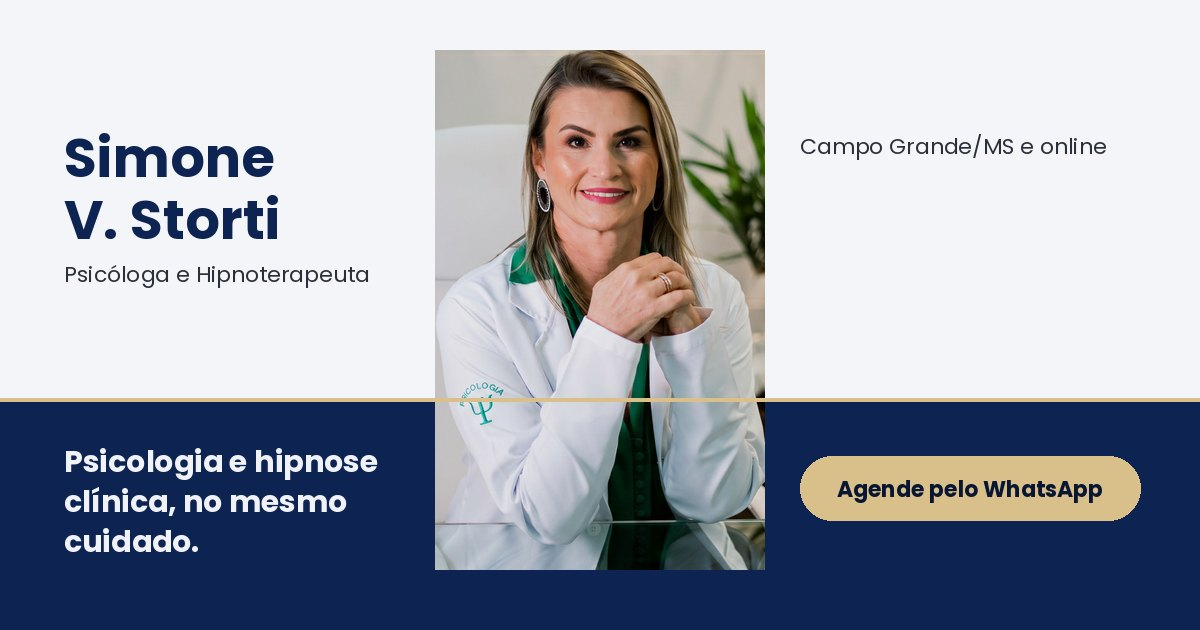
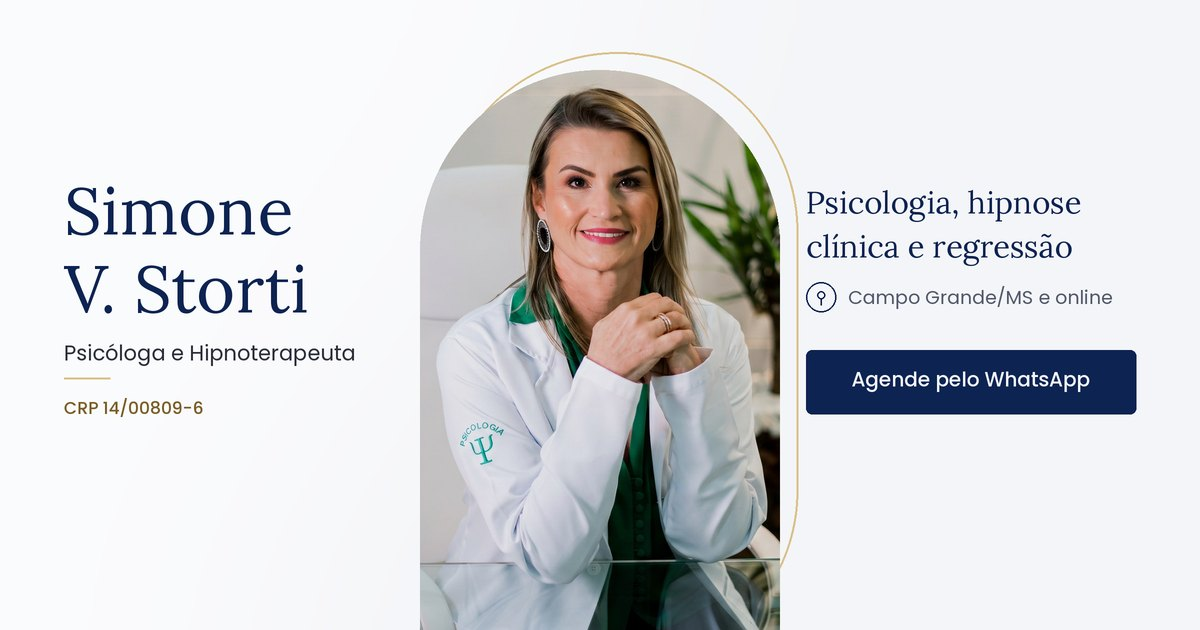
Novo cartão de compartilhamento no visual atual do site
Foto nova em arco no centro, nome serifado, CRP e botão marinho.
Imagem passa para ?v=3 e ganha og:image:secure_url e og:image:type.

Claude-Session: https://claude.ai/code/session_019DKL7e2MCgGKXNxP6ZApVs

diff --git a/site/index.html b/site/index.html
@@ -13,14 +13,16 @@
 <meta property="og:title" content="Simone V. Storti | Psicóloga e Hipnoterapeuta">
 <meta property="og:description" content="Psicóloga e hipnoterapeuta em Campo Grande/MS, com atendimento online. Psicologia, hipnose clínica e regressão para ansiedade, pânico, TOC, depressão, insônia e esgotamento.">
 <meta property="og:url" content="https://simonestorti-bice.vercel.app/">
-<meta property="og:image" content="https://simonestorti-bice.vercel.app/og-image.jpg?v=2">
+<meta property="og:image" content="https://simonestorti-bice.vercel.app/og-image.jpg?v=3">
+<meta property="og:image:secure_url" content="https://simonestorti-bice.vercel.app/og-image.jpg?v=3">
+<meta property="og:image:type" content="image/jpeg">
 <meta property="og:image:width" content="1200">
 <meta property="og:image:height" content="630">
 <meta property="og:image:alt" content="Foto de Simone V. Storti, psicóloga e hipnoterapeuta em Campo Grande/MS">
 <meta name="twitter:card" content="summary_large_image">
 <meta name="twitter:title" content="Simone V. Storti | Psicóloga e Hipnoterapeuta">
 <meta name="twitter:description" content="Psicóloga e hipnoterapeuta em Campo Grande/MS, com atendimento online. Psicologia, hipnose clínica e regressão para ansiedade, pânico, TOC, depressão, insônia e esgotamento.">
-<meta name="twitter:image" content="https://simonestorti-bice.vercel.app/og-image.jpg?v=2">
+<meta name="twitter:image" content="https://simonestorti-bice.vercel.app/og-image.jpg?v=3">
 <link rel="icon" type="image/png" sizes="32x32" href="favicon-32.png">
 <link rel="apple-touch-icon" href="apple-touch-icon.png">
 <link rel="preconnect" href="https://fonts.googleapis.com">

diff --git a/fonte/template.html b/fonte/template.html
@@ -13,14 +13,16 @@
 <meta property="og:title" content="{{NOME}} | {{PROFISSAO}}">
 <meta property="og:description" content="{{DESCRICAO}}">
 <meta property="og:url" content="{{URL}}">
-<meta property="og:image" content="{{URL}}og-image.jpg?v=2">
+<meta property="og:image" content="{{URL}}og-image.jpg?v=3">
+<meta property="og:image:secure_url" content="{{URL}}og-image.jpg?v=3">
+<meta property="og:image:type" content="image/jpeg">
 <meta property="og:image:width" content="1200">
 <meta property="og:image:height" content="630">
 <meta property="og:image:alt" content="Foto de {{NOME}}, {{PROFISSAO_MIN}} em {{CIDADE}}">
 <meta name="twitter:card" content="summary_large_image">
 <meta name="twitter:title" content="{{NOME}} | {{PROFISSAO}}">
 <meta name="twitter:description" content="{{DESCRICAO}}">
-<meta name="twitter:image" content="{{URL}}og-image.jpg?v=2">
+<meta name="twitter:image" content="{{URL}}og-image.jpg?v=3">
 <link rel="icon" type="image/png" sizes="32x32" href="favicon-32.png">
 <link rel="apple-touch-icon" href="apple-touch-icon.png">
 <link rel="preconnect" href="https://fonts.googleapis.com">

diff --git a/fonte/template_parte1.html b/fonte/template_parte1.html
@@ -13,14 +13,16 @@
 <meta property="og:title" content="{{NOME}} | {{PROFISSAO}}">
 <meta property="og:description" content="{{DESCRICAO}}">
 <meta property="og:url" content="{{URL}}">
-<meta property="og:image" content="{{URL}}og-image.jpg?v=2">
+<meta property="og:image" content="{{URL}}og-image.jpg?v=3">
+<meta property="og:image:secure_url" content="{{URL}}og-image.jpg?v=3">
+<meta property="og:image:type" content="image/jpeg">
 <meta property="og:image:width" content="1200">
 <meta property="og:image:height" content="630">
 <meta property="og:image:alt" content="Foto de {{NOME}}, {{PROFISSAO_MIN}} em {{CIDADE}}">
 <meta name="twitter:card" content="summary_large_image">
 <meta name="twitter:title" content="{{NOME}} | {{PROFISSAO}}">
 <meta name="twitter:description" content="{{DESCRICAO}}">
-<meta name="twitter:image" content="{{URL}}og-image.jpg?v=2">
+<meta name="twitter:image" content="{{URL}}og-image.jpg?v=3">
 <link rel="icon" type="image/png" sizes="32x32" href="favicon-32.png">
 <link rel="apple-touch-icon" href="apple-touch-icon.png">
 <link rel="preconnect" href="https://fonts.googleapis.com">

diff --git a/fonte/gerar_imagens.py b/fonte/gerar_imagens.py
@@ -13,7 +13,8 @@ SAIDA.mkdir(exist_ok=True)
 
 NOME = ["Simone", "V. Storti"]
 PROFISSAO = "Psicóloga e Hipnoterapeuta"
-FRASE = ["Psicologia e hipnose", "clínica, no mesmo", "cuidado."]
+FRASE = ["Psicologia, hipnose", "clínica e regressão"]
+CRP = "CRP 14/00809-6"
 CIDADE = "Campo Grande/MS e online"
 
 PORCELANA = (244, 245, 248)
@@ -40,50 +41,82 @@ def fonte(lista, tam):
 
 
 def og():
-    W, H, LINHA = 1200, 630, 400
-    im = Image.new("RGB", (W, H), PORCELANA)
-    d = ImageDraw.Draw(im)
-    d.rectangle([0, LINHA, W, H], fill=MARINHO)
+    """Cartão 1200x630 no visual do site: porcelana, foto em arco no centro
+    (a miniatura quadrada do WhatsApp corta o meio), nome serifado à esquerda,
+    chamada e botão marinho à direita."""
+    W, H = 1200, 630
+    E = 2  # desenha em dobro e reduz no fim, para bordas suaves
+    im = Image.new("RGB", (W * E, H * E), PORCELANA)
 
-    # foto centralizada, atravessando a linha (a miniatura do WhatsApp corta o centro)
+    # luz diagonal suave, como na hero
+    luz = Image.new("L", (W * E, H * E), 0)
+    dl = ImageDraw.Draw(luz)
+    dl.polygon([(0, 0), (int(W * E * .55), 0), (int(W * E * .2), H * E), (0, H * E)], fill=150)
+    luz = luz.filter(ImageFilter.GaussianBlur(120 * E))
+    im.paste(Image.new("RGB", im.size, (255, 255, 255)), (0, 0), luz)
+    d = ImageDraw.Draw(im)
+
+    # foto em arco, centralizada, saindo pela base
+    fw, fh = 360 * E, 560 * E
+    fx, fy = (W * E - fw) // 2, 70 * E
+    # moldura dourada deslocada atrás do arco
+    d.rounded_rectangle([fx + 18 * E, fy - 18 * E, fx + fw + 18 * E, fy + fh + 40 * E], radius=fw // 2, outline=CHAMPANHE, width=2 * E)
     foto = Image.open(AQUI / "fotos" / "hero.jpg").convert("RGB")
-    fw, fh = 330, 520
     # recorte com o rosto no terço superior (ajuste CX, TOPO e LARG se trocar a foto)
-    CX, TOPO, LARG = 500, 150, 640
+    CX, TOPO, LARG = 500, 110, 700
     box = (CX - LARG // 2, TOPO, CX + LARG // 2, TOPO + int(LARG * fh / fw))
     foto = foto.crop(box).resize((fw, fh), Image.LANCZOS)
-    x0, y0 = (W - fw) // 2, 50
-    im.paste(foto, (x0, y0))
-    d = ImageDraw.Draw(im)
-    # linha dourada (limiar) cruzando tudo, por cima da foto
-    d.rectangle([0, LINHA - 2, W, LINHA + 1], fill=CHAMPANHE)
+    mascara = Image.new("L", (fw, fh), 0)
+    ImageDraw.Draw(mascara).rounded_rectangle([0, 0, fw, fh + fw], radius=fw // 2, fill=255)
+    im.paste(foto, (fx, fy), mascara)
 
-    f_nome = fonte(FONTES, 54)
-    f_prof = fonte(FONTES_REG, 22)
-    f_frase = fonte(FONTES, 30)
-    f_cid = fonte(FONTES_REG, 22)
-    f_selo = fonte(FONTES, 22)
+    serif = ["/usr/share/fonts/truetype/google-fonts/Lora-Variable.ttf", "/usr/share/fonts/truetype/dejavu/DejaVuSerif.ttf"]
+    med = ["/usr/share/fonts/truetype/google-fonts/Poppins-Medium.ttf"] + FONTES_REG
+    f_nome = fonte(serif, 66 * E)
+    f_prof = fonte(FONTES_REG, 21 * E)
+    f_crp = fonte(med, 17 * E)
+    f_frase = fonte(serif, 31 * E)
+    f_cid = fonte(FONTES_REG, 19 * E)
+    f_btn = fonte(med, 20 * E)
+    OURO_TXT = (122, 94, 38)
+    CINZA = (82, 90, 108)
 
-    y = 120
+    # esquerda: nome, profissão, CRP
+    x = 64 * E
+    y = 168 * E
     for linha in NOME:
-        d.text((64, y), linha, font=f_nome, fill=MARINHO)
-        y += 62
-    d.text((64, y + 14), PROFISSAO, font=f_prof, fill=GRAFITE)
+        d.text((x, y), linha, font=f_nome, fill=MARINHO)
+        y += 78 * E
+    y += 14 * E
+    d.text((x, y), PROFISSAO, font=f_prof, fill=GRAFITE)
+    y += 40 * E
+    d.line([(x, y), (x + 46 * E, y)], fill=CHAMPANHE, width=2 * E)
+    y += 18 * E
+    d.text((x, y), CRP, font=f_crp, fill=OURO_TXT)
 
-    y = 440
+    # direita: frase, cidade, botão
+    x = (W - 64 - 330) * E
+    y = 182 * E
     for linha in FRASE:
-        d.text((64, y), linha, font=f_frase, fill=(240, 242, 247))
-        y += 40
-
-    d.text((800, 130), CIDADE, font=f_cid, fill=GRAFITE)
-    # selo
-    sx, sy, sw, sh = 800, 456, 340, 64
-    d.rounded_rectangle([sx, sy, sx + sw, sy + sh], radius=32, fill=CHAMPANHE)
+        d.text((x, y), linha, font=f_frase, fill=MARINHO)
+        y += 44 * E
+    y += 14 * E
+    # ícone de local em círculo
+    r = 15 * E
+    cx, cy = x + r, y + 13 * E
+    d.ellipse([cx - r, cy - r, cx + r, cy + r], outline=MARINHO, width=max(2, int(1.5 * E)))
+    d.ellipse([cx - 4 * E, cy - 6 * E, cx + 4 * E, cy + 2 * E], outline=MARINHO, width=max(2, int(1.5 * E)))
+    d.line([(cx, cy + 2 * E), (cx, cy + 8 * E)], fill=MARINHO, width=max(2, int(1.5 * E)))
+    d.text((x + 2 * r + 12 * E, y), CIDADE, font=f_cid, fill=CINZA)
+    y += 66 * E
+    bw, bh = 330 * E, 64 * E
+    d.rounded_rectangle([x, y, x + bw, y + bh], radius=6 * E, fill=MARINHO)
     txt = "Agende pelo WhatsApp"
-    tw = d.textlength(txt, font=f_selo)
-    d.text((sx + (sw - tw) / 2, sy + 17), txt, font=f_selo, fill=NOITE)
+    bb = d.textbbox((0, 0), txt, font=f_btn)
+    d.text((x + (bw - (bb[2] - bb[0])) / 2 - bb[0], y + (bh - (bb[3] - bb[1])) / 2 - bb[1]), txt, font=f_btn, fill=PORCELANA)
 
-    im.save(SAIDA / "og-image.jpg", "JPEG", quality=86, optimize=True)
+    im = im.resize((W, H), Image.LANCZOS)
+    im.save(SAIDA / "og-image.jpg", "JPEG", quality=86, optimize=True, progressive=True)
 
 
 FONTE_S = [
